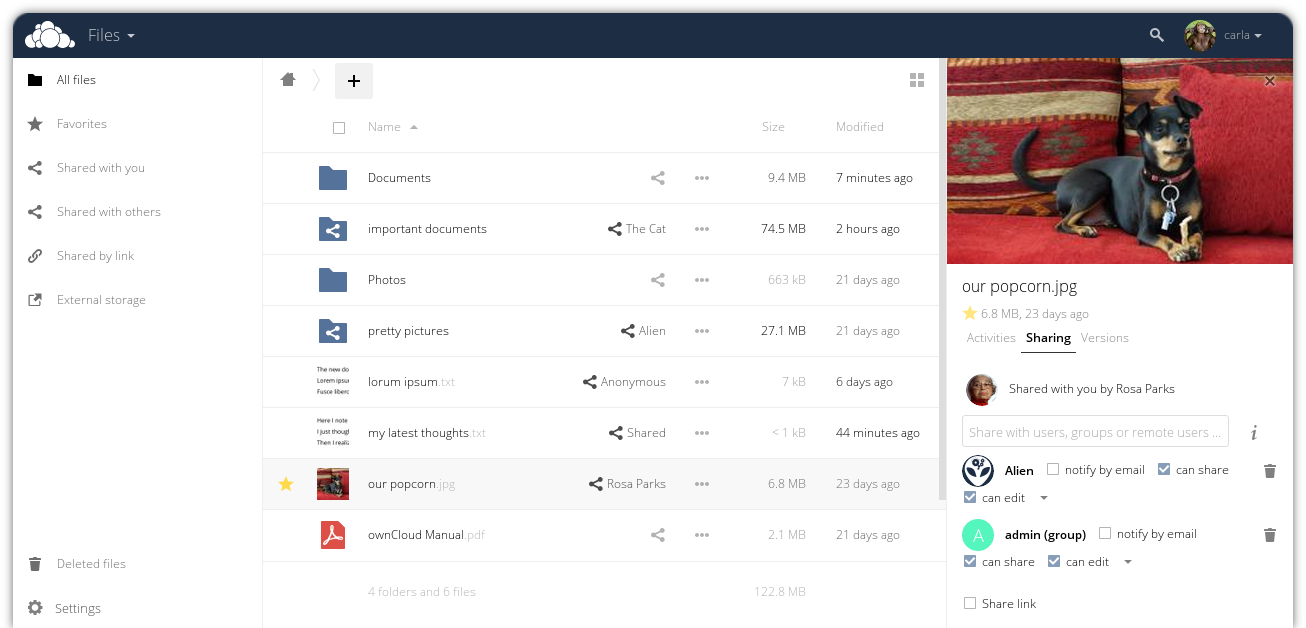
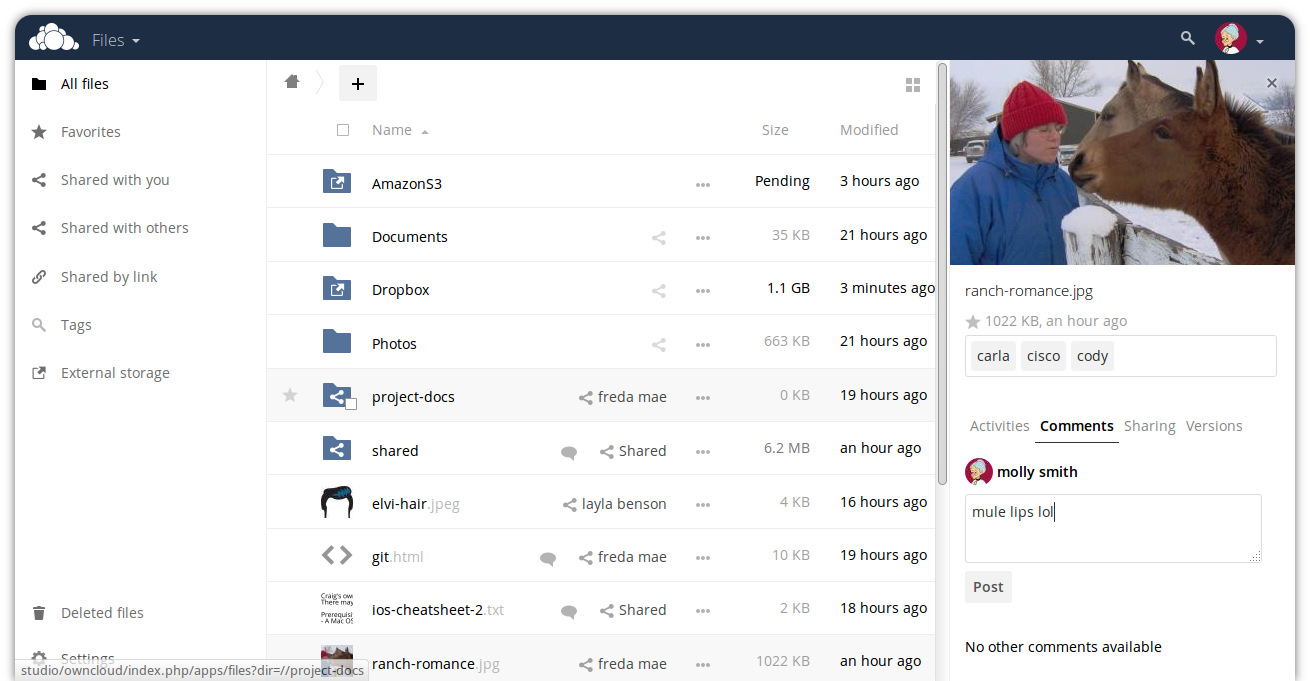
added screenshots to features page

diff --git a/page-features.php b/page-features.php
@@ -69,6 +69,7 @@
 		<p class="featuredesc">When traveling, access ownCloud through your Android or iOS devices. Automatically upload pictures after taking them. Sync files at home or work with the desktop client keeping one or more local folders synchronized between devices. And wherever you are, the web interface lets you view, share and edit your files alone or with others.</p>
 <!-- 		You're on holiday and access your ownCloud through your Android phone. Pictures and videos are uploaded to your server whenever you make them. At work, you always have the latest version of your files on your desktop and your calendar is synced with your iPad. You borrow a laptop from a friend and get at your files through the web interface. -->
 		<p>Wherever you are, your data is with you thanks to ownCloud!</p>
+
 	</div>
 	<img src="<?php bloginfo('template_directory'); ?>/assets/img/features/sharing-hand.png" class="ft-everywhere-img" />
 </div>
@@ -95,20 +96,25 @@
 
         <div class="col-md-5 col-sm-6 featureblock">
 		<h3 class="featuretitle">Share and collaborate with anybody</h3>
-		<img class="img-responsive" alt="Comment on your files" src="<?php bloginfo('template_directory'); ?>/assets/img/screenshots/server/eight-two/sidebar_sharing-wee.png" />
+		<a href="<?php bloginfo('template_directory'); ?>/assets/img/screenshots/server/nine/comments-shot.png" target="_blank"><img class="img-responsive" alt="Comment on your files" src="<?php bloginfo('template_directory'); ?>/assets/img/screenshots/server/nine/comments-shot-wee.png" /></a>
 		<p class="featuredesc">ownCloud features comments, sharing within and between ownCloud servers, public links and more. <br/> <span class="caret"></span><a href="#share" data-toggle="collapse"> learn more</a></p>
 		<div id="share" class="collapse">
-			<p class="featuredesc">You and others can comment on files, tag them, and see the comments and tags by others. ownCloud lets you share files, calendars and other data with users on your ownCloud, on other ownCloud servers. User names on remote ownCloud servers are auto-completed once the server is added as trusted and files you share with others always remain on your server. You can also share via public links with or without upload rights, password protection and automatic expiration.</p>
-			<h2>TBD - Insert Video Here</h2>
+			<p class="featuredesc">You and others can comment on files, tag them, and see the comments and tags by others. ownCloud lets you share files, calendars and other data with users on your ownCloud or on other ownCloud servers ("federation"). User names on remote ownCloud servers ("Federated Cloud ID's") are auto-completed once the server is added as trusted (this can be done automatically on the first time you share with the other server) and files you share with others always remain on your server. You can also share via public links with or without upload rights, password protection and automatic expiration.</p>
+<!-- 			Creating a public upload folder -->
+		        <iframe width="100%" height="315" src="https://www.youtube.com/embed/3GSppxEhmZY?rel=0" frameborder="0" allowfullscreen></iframe>
+		        <p>Learn <a href="/federation">more about federation here</a>.</p>
 		</div>
 	</div>
 
 	<div class="col-md-5 col-md-offset-2 col-sm-6 featureblock">
 		<h3 class="featuretitle">Flexible storage</h3>
-		<img class="img-responsive" alt="Comment on your files" src="<?php bloginfo('template_directory'); ?>/assets/img/screenshots/server/eight-two/sidebar_sharing-wee.png" />
-		<p class="featuredesc">Flexible external storage handling allows you to access your existing data through ownCloud, wherever it is.<br/> <span class="caret"></span><a href="#share" data-toggle="collapse"> learn more</a></p>
+		<a href="<?php bloginfo('template_directory'); ?>/assets/img/screenshots/server/nine/ext-storage.png" target="_blank"><img class="img-responsive" alt="External storage configuration" src="<?php bloginfo('template_directory'); ?>/assets/img/screenshots/server/nine/ext-storage-wee.png" /></a>
+		<p class="featuredesc">Flexible external storage handling allows you to access your existing data through ownCloud, wherever it is.<br/> <span class="caret"></span><a href="#store" data-toggle="collapse"> learn more</a></p>
 		<div id="store" class="collapse">
 			<p class="featuredesc">You can add external storage to your ownCloud with Dropbox, SWIFT, (S)FTP, Google Drive, Amazon S3, OpenStack Object Storage, local hard drives, WebDAV, SMB/CIFS and more. You can control if you want to retrieve thumbnails and how often you want to check for changes. With the ownCloud Encryption app, data can be encrypted on local and/or remote storage. Keys never leave the ownCloud server but can also be managed by an external key management tool.</p>
+<!-- 			Configuring external storage -->
+			<iframe width="100%" height="315" src="https://www.youtube.com/embed/uezzFDRnoPY?rel=0" frameborder="0" allowfullscreen></iframe>
+			<p>Read on <a href="https://opensource.com/business/16/3/cern-and-owncloud">on opensource.com</a> about how the collaboration between ownCloud and physics labs CERN, inventors of the Internet.</p>
 		</div>
 	</div>
 
@@ -120,7 +126,7 @@
 
 	<div class="col-md-5 col-sm-6 featureblock">
 		<h3 class="featuretitle">Mobile and desktop syncing</h3>
-		<img class="img-responsive" alt="Comment on your files" src="<?php bloginfo('template_directory'); ?>/assets/img/screenshots/server/eight-two/sidebar_sharing-wee.png" />
+		<a href="<?php bloginfo('template_directory'); ?>/assets/img/screenshots/server/nine/mobile.png" target="_blank"><img class="img-responsive" alt="mobile UI" src="<?php bloginfo('template_directory'); ?>/assets/img/screenshots/server/nine/mobile-wee.png" /></a>
 		<p class="featuredesc">Android, iOS, Windows, Mac and Linux clients are available for ownCloud. <br/> <span class="caret"></span><a href="#clients" data-toggle="collapse"> learn more</a></p>
 		<div id="clients" class="collapse">
 			<p class="featuredesc">ownCloud offers rich Android and iOS mobile clients as well as Windows, Mac and Linux desktop sync clients. The mobile clients can automatically upload pictures and videos you take and synchronize select files and folders. All clients can show activity on your server and notify you of new shares and other important events. All data transfers, from and to clients or the web interface, are encrypted with HTTPS and based on the widely implemented and supported WebDAV standard.</p>
@@ -129,7 +135,7 @@
 
 	<div class="col-md-5 col-md-offset-2 col-sm-6 featureblock">
 		<h3 class="featuretitle">Calendars and contacts</h3>
-		<img class="img-responsive" alt="Comment on your files" src="<?php bloginfo('template_directory'); ?>/assets/img/screenshots/server/eight-two/sidebar_sharing-wee.png" />
+		<a href="<?php bloginfo('template_directory'); ?>/assets/img/screenshots/server/nine/calendar-wee.png" target="_blank"><img class="img-responsive" alt="calendar and contacts" src="<?php bloginfo('template_directory'); ?>/assets/img/screenshots/server/nine/calendar-wee.png" /></a>
 		<p class="featuredesc">ownCloud features Calendar and Contacts apps to store, sync and share what you do and who you know.<br/> <span class="caret"></span><a href="#calendar" data-toggle="collapse"> learn more</a></p>
 		<div id="calendar" class="collapse">
 			<p class="featuredesc">Share your calendar with other ownCloud users or groups on your ownCloud server, easily and quickly. Store your contacts in ownCloud and share them among your devices so you always have access to your friends, family and colleagues.</p>
@@ -140,9 +146,9 @@
 <div class="row featurerow">
 
 	<div class="col-md-5 col-sm-6 featureblock">
-		<h3 class="featuretitle">Collaborative editing</h3>
-		<img class="img-responsive" alt="Comment on your files" src="<?php bloginfo('template_directory'); ?>/assets/img/screenshots/server/eight-two/sidebar_sharing-wee.png" />
-		<p class="featuredesc">Edit rich text documents with others in real time with ownCloud. <br/> <span class="caret"></span><a href="#editing" data-toggle="collapse"> learn more</a></p>
+		<h3 class="featuretitle">Work with your documents</h3>
+		<a href="<?php bloginfo('template_directory'); ?>/assets/img/screenshots/server/nine/pdf.png" target="_blank"><img class="img-responsive" alt="Comment on your files" src="<?php bloginfo('template_directory'); ?>/assets/img/screenshots/server/nine/pdf-wee.png" />
+		<p class="featuredesc">Edit rich text documents with others in real time, read PDF's, see pictures, watch videos and more. <br/> <span class="caret"></span><a href="#editing" data-toggle="collapse"> learn more</a></p>
 		<div id="editing" class="collapse">
 			<p class="featuredesc">ownCloud Documents is collaborative editing of rich-text documents that lets up to 5 individuals collaborate to edit .odt or .doc files securely 
 			within the browser.  Documents may then be shared inside ownCloud or via a public link. See it in action on <a href="https://www.youtube.com/watch?v=xsqSLeppxm0" target="_blank">YouTube</a>. Other collaboration apps are in development, like a <a href="https://owncloud.org/blog/libreoffice-online-has-arrived-in-owncloud/">full online office suite for ownCloud by Collabora</a> and <a href="https://owncloud.org/blog/spreed-brings-private-video-calls-to-owncloud/">private video calls and chat by Spreed</a>.</p>
@@ -152,7 +158,7 @@
 
 	<div class="col-md-5 col-md-offset-2 col-sm-6 featureblock">
 		<h3 class="featuretitle">Activity feed and notifications</h3>
-		<img class="img-responsive" alt="Comment on your files" src="<?php bloginfo('template_directory'); ?>/assets/img/screenshots/server/eight-two/sidebar_sharing-wee.png" />
+		<a href="<?php bloginfo('template_directory'); ?>/assets/img/screenshots/server/nine/receiving-notification.png" target="_blank"><img class="img-responsive" alt="Comment on your files" src="<?php bloginfo('template_directory'); ?>/assets/img/screenshots/server/nine/receiving-notification-wee.png" /></a>
 		<p class="featuredesc">The Activity feed and Notifications keep you updated on what is happening with your data. <br/> <span class="caret"></span><a href="#notify" data-toggle="collapse"> learn more</a></p>
 		<div id="notify" class="collapse">
 			<p class="featuredesc">ownCloud features an activity feed. See who shared a file with you or when you created, changed or deleted files, commented or added a tag. Access the feed via RSS, the web interface, or Desktop or Mobile clients. Notifications pop up in the web interface and on the clients when new files are shared or a calendar invite came in.</p>
@@ -217,7 +223,7 @@
 <!-- 	<div class="col-md-4 text-center"><iframe width="100%" height="315" src="https://www.youtube.com/embed/uezzFDRnoPY?rel=0" frameborder="0" allowfullscreen></iframe></div> -->
 <!--	Managing (adding, removing, changing) users in ownCloud -->
 <!-- 	<div class="col-md-4 text-center"><iframe width="100%" height="315" src="https://www.youtube.com/embed/teelHVdXD4k?rel=0" frameborder="0" allowfullscreen></iframe></div> -->
-<!--New external storage options explained-->
+<!--	New external storage options explained-->
 <!--         <div class="col-md-4 text-center"><iframe width="100%" height="315" src="https://www.youtube.com/embed/nx5PGWc7X18?rel=0" frameborder="0" allowfullscreen></iframe></div> -->
 <!--ownCloud Federated Sharing video-->
 <!--         <div class="col-md-4 text-center"><iframe width="100%" height="315" src="https://www.youtube.com/embed/9-JEmlH2DEg?rel=0" frameborder="0" allowfullscreen></iframe></div> -->
@@ -232,12 +238,12 @@
 		<div class="col-md-4 featureblock">
 			<img class="thumbnail" alt="improved design" src="<?php bloginfo('template_directory'); ?>/assets/img/features/sidebar.png" />
 			<h3 class="ft-title">Innovative Collaboration</h3>
-			<p class="featuredesc">The introduction of comments and tags combined with the rework of the notifications and activity feed allow a new level of interaction.</p>
+			<p class="featuredesc">The introduction of comments and tags combined with the improvements to the notifications and activity feed allow a new level of interaction.</p>
 		</div>
 		<div class="col-md-4 featureblock">
 			<img class="thumbnail" alt="New Gallery app" src="<?php bloginfo('template_directory'); ?>/assets/img/features/gallery.png" />
 			<h3 class="ft-title">Ultimate Scalability</h3>
-			<p class="featuredesc">A new storage API enables deeper integration with storage solutions and reworked sharing code handles more shares with more users.</p>
+			<p class="featuredesc">A new storage API enables deeper integration with storage solutions and updated sharing code handles more shares with more users.</p>
 		</div>
 		<div class="col-md-4 featureblock">
 			<img class="thumbnail" alt="Notifications" src="<?php bloginfo('template_directory'); ?>/assets/img/features/notification.png" />
